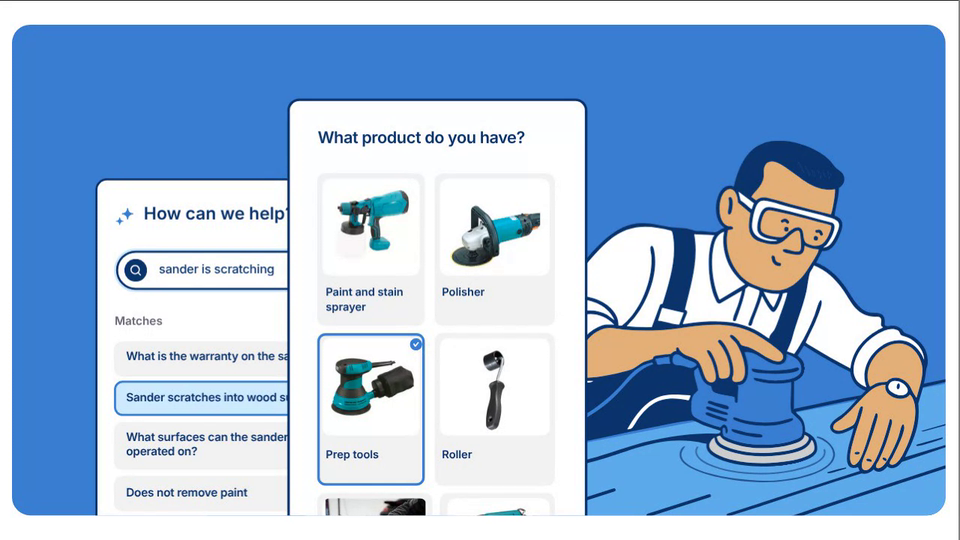
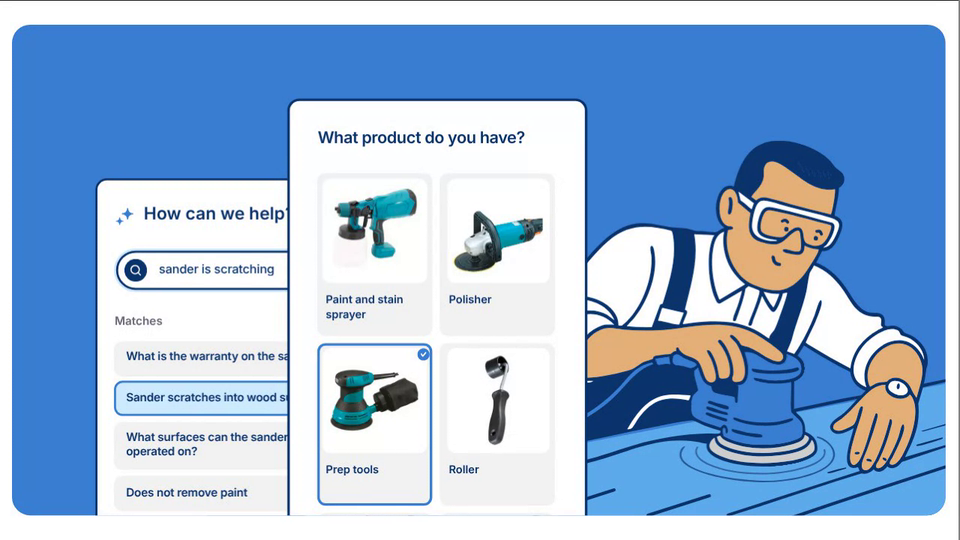
Sander Troubleshoot: equal product tiles and consistently sized product images
Claude-Session: https://claude.ai/code/session_01AHeBdyNeaELCh2LXZzRH9f

diff --git a/sander-troubleshoot/index.html b/sander-troubleshoot/index.html
@@ -41,14 +41,11 @@ main{flex:1;min-height:0;display:flex;flex-direction:column;align-items:center;p
 #bc .rows{position:absolute;left:11.17px;right:11.17px;top:28.86px;display:flex;flex-direction:column;gap:3.281px}
 #bc .row{display:flex;gap:3.281px;align-items:stretch}
 .tile{position:relative;background:#f2f2f3;border-radius:3.281px;padding:2.188px 2.188px 4.375px;display:flex;flex-direction:column;gap:4.375px;overflow:visible}
-.tile .im{position:relative;flex:none;width:38.83px;height:38.83px;background:#fff;border-radius:3.281px;overflow:hidden}
-.tile .im img{position:absolute;object-fit:cover;left:50%!important;translate:-50% 0}
-.tile.fl .im{width:100%}
-.tile .tt{width:auto}
-.tile .tt{padding:0 2.188px 0 1.094px;font-size:4.375px;width:38.83px}
-.tile.fix{height:60.43px}
-.tile.w1{width:43.2px;flex:none}.tile.fl{flex:1 1 0;min-width:0}
-.tile .tt.bot{margin-top:auto}
+.tile .im{position:relative;flex:none;width:100%;aspect-ratio:1/1;background:#fff;border-radius:3.281px;overflow:hidden}
+.tile .im img{position:absolute;left:50%;top:50%;translate:-50% -50%;object-fit:cover}
+.tile .tt{padding:0 2.188px 0 1.094px;font-size:4.375px;width:auto}
+.tile{height:65px}
+.tile.w1,.tile.fl{flex:1 1 0;min-width:0;width:auto}
 .tile .sel{position:absolute;inset:-.1px;border:.547px solid #397ed3;border-radius:3.281px;opacity:0}
 .tile .ok{position:absolute;right:1.37px;top:1.64px;width:4.922px;height:4.922px}
 .tile .tap{position:absolute;left:50%;top:44%;width:7px;height:7px;margin:-3.5px 0 0 -3.5px;border-radius:50%;background:rgba(12,52,108,.28);border:.6px solid #0c346c;opacity:0;pointer-events:none;z-index:2}
@@ -105,16 +102,16 @@ main{flex:1;min-height:0;display:flex;flex-direction:column;align-items:center;p
 <p class="ttl">What product do you have?</p>
 <div class="rows">
  <div class="row">
-  <div class="tile w1 t"><div class="im"><img src="assets/paint-sprayer.webp" alt="" style="left:3px;top:3px;width:32.8px;height:32.8px"></div><p class="tt">Paint and stain sprayer</p></div>
-  <div class="tile fl t"><div class="im"><img src="assets/polisher.webp" alt="" style="left:3px;top:1.4px;width:35.8px;height:35.8px"></div><p class="tt bot">Polisher</p></div>
+  <div class="tile w1 t"><div class="im"><img src="assets/paint-sprayer.webp" alt="" style="width:91%;height:91%"></div><p class="tt">Paint and stain sprayer</p></div>
+  <div class="tile fl t"><div class="im"><img src="assets/polisher.webp" alt="" style="width:86%;height:86%"></div><p class="tt">Polisher</p></div>
  </div>
  <div class="row">
-  <div class="tile w1 fix" id="prep"><div class="im"><img src="assets/prep-tools.webp" alt="" style="left:3px;top:3px;width:32.8px;height:32.8px"></div><p class="tt">Prep tools</p><i class="sel" id="psel"></i><img class="ok" id="pok" src="assets/success.svg" alt=""><i class="ring" id="pring"></i><i class="tap" id="tap"></i></div>
-  <div class="tile fl fix t"><div class="im"><img src="assets/roller.webp" alt="" style="left:3px;top:3.3px;width:33.3px;height:33.3px;transform:rotate(-90deg)"></div><p class="tt">Roller</p></div>
+  <div class="tile w1" id="prep"><div class="im"><img src="assets/prep-tools.webp" alt="" style="width:85%;height:85%"></div><p class="tt">Prep tools</p><i class="sel" id="psel"></i><img class="ok" id="pok" src="assets/success.svg" alt=""><i class="ring" id="pring"></i><i class="tap" id="tap"></i></div>
+  <div class="tile fl t"><div class="im"><img src="assets/roller.webp" alt="" style="width:88%;height:88%;transform:rotate(-90deg)"></div><p class="tt">Roller</p></div>
  </div>
  <div class="row">
-  <div class="tile fl fix t"><div class="im"><img src="assets/prep-find.webp" alt="" style="left:-.3px;top:-.3px;width:39.4px;height:39.4px"></div><p class="tt bot">Find the prep tool you need</p></div>
-  <div class="tile fl fix t"><div class="im"><img src="assets/heat-gun.webp" alt="" style="left:3px;top:3px;width:32.8px;height:32.8px"></div><p class="tt bot">Heat gun support</p></div>
+  <div class="tile fl t"><div class="im"><img src="assets/prep-find.webp" alt="" style="width:100%;height:100%"></div><p class="tt">Find the prep tool you need</p></div>
+  <div class="tile fl t"><div class="im"><img src="assets/heat-gun.webp" alt="" style="width:86%;height:86%"></div><p class="tt">Heat gun support</p></div>
  </div>
 </div>
 </div>
